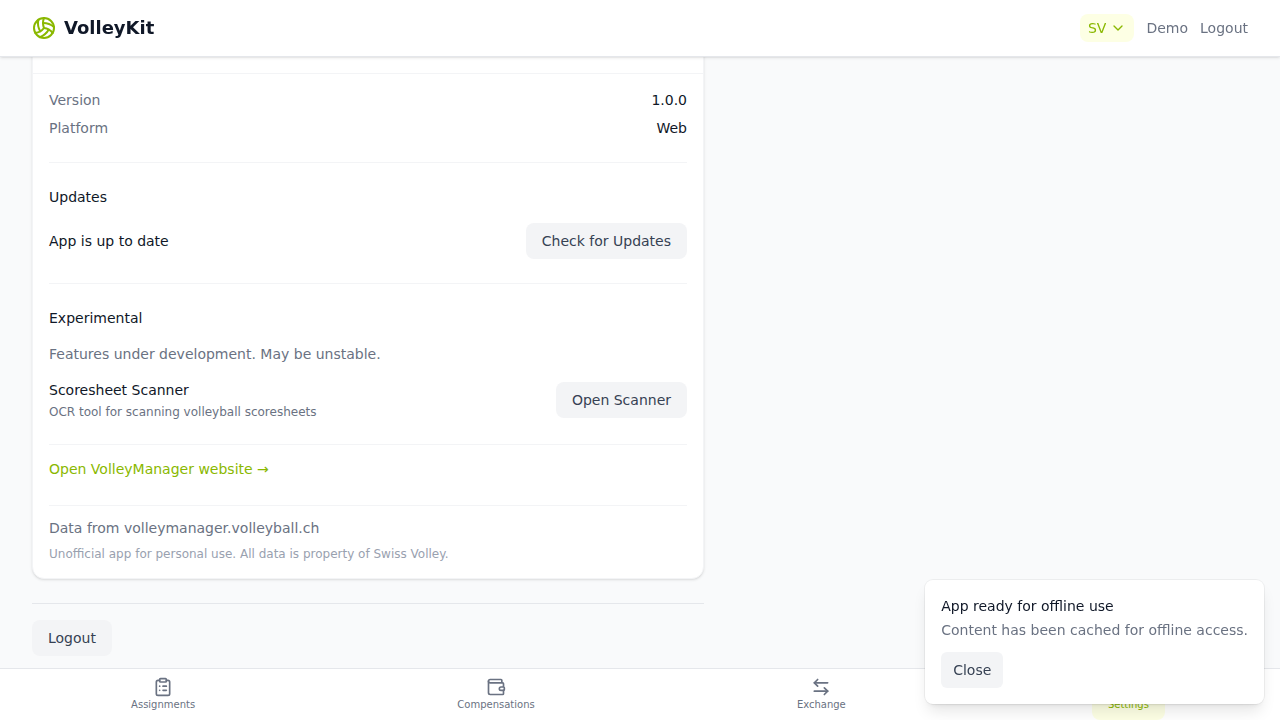
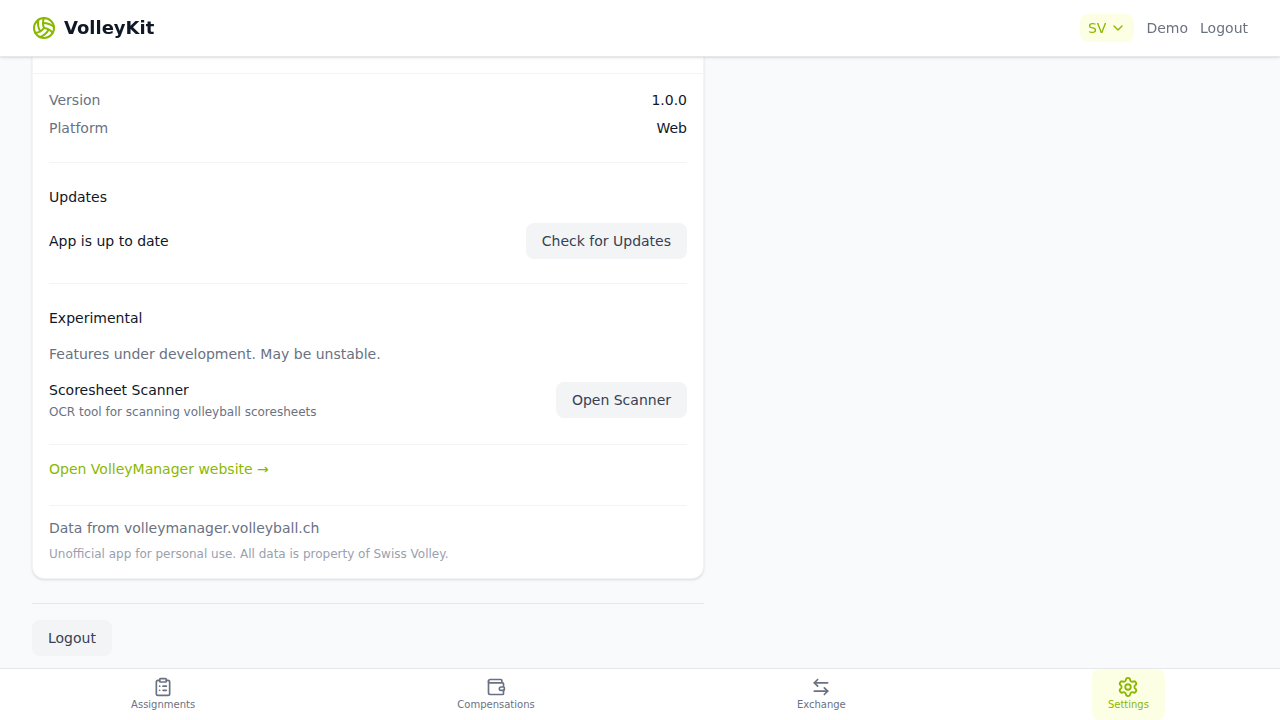
fix(help-site): improve screenshot capture with PWA dismissal and spotlight
- Dismiss PWA "ready for offline use" notifications before screenshots
- Fix swipe gesture simulation using slower mouse movements
- Add spotlight/highlight feature for focusing on specific UI elements
- Use spotlight on assignment-detail to highlight the expanded card
- Regenerate all screenshots with the improvements

Changed region(s): [[0.75, 0.9167, 0.9688, 1.0], [0.7188, 0.825, 0.9688, 0.8861], [0.75, 0.9167, 0.7812, 0.9472]]

diff --git a/web-app/e2e/capture-screenshots.spec.ts b/web-app/e2e/capture-screenshots.spec.ts
@@ -33,8 +33,8 @@ test.beforeAll(() => {
   }
 });
 
-// Helper to dismiss all tours by setting localStorage
-async function dismissAllTours(page: Page) {
+// Helper to dismiss all tours and PWA notifications by setting localStorage
+async function setupCleanEnvironment(page: Page) {
   await page.addInitScript(() => {
     // Pre-dismiss all tours to avoid them interfering with screenshots
     const tourState = {
@@ -45,14 +45,118 @@ async function dismissAllTours(page: Page) {
       version: 0,
     };
     localStorage.setItem('volleykit-tour', JSON.stringify(tourState));
+
+    // Disable PWA prompts by mocking the service worker registration
+    // This prevents "App ready for offline use" notifications
+    if ('serviceWorker' in navigator) {
+      // Override the ready promise to prevent PWA notifications
+      Object.defineProperty(navigator.serviceWorker, 'ready', {
+        get: () => new Promise(() => {}), // Never resolves
+      });
+    }
   });
+}
+
+// Helper to dismiss any visible PWA notification
+async function dismissPWANotification(page: Page) {
+  // Look for the PWA notification and dismiss it if visible
+  const closeButton = page.locator('[role="alert"] button').last();
+  if (await closeButton.isVisible({ timeout: 500 }).catch(() => false)) {
+    await closeButton.click();
+    await page.waitForTimeout(300);
+  }
 }
 
 // Helper to take a screenshot with a specific name
 async function takeScreenshot(page: Page, name: string) {
+  // Dismiss any PWA notifications before taking screenshot
+  await dismissPWANotification(page);
+
   const filePath = path.join(SCREENSHOT_DIR, `${name}.png`);
   await page.screenshot({ path: filePath, fullPage: false });
   console.log(`✅ Captured: ${name}.png`);
+}
+
+// Helper to add a spotlight effect highlighting a specific element
+// Creates a dark overlay with a "hole" around the spotlighted element
+async function addSpotlight(page: Page, selector: string, padding = 8) {
+  await page.evaluate(
+    ({ selector, padding }) => {
+      const element = document.querySelector(selector);
+      if (!element) return;
+
+      const rect = element.getBoundingClientRect();
+
+      // Create spotlight overlay
+      const overlay = document.createElement('div');
+      overlay.id = 'screenshot-spotlight-overlay';
+      overlay.style.cssText = `
+        position: fixed;
+        inset: 0;
+        z-index: 99999;
+        pointer-events: none;
+        background: rgba(0, 0, 0, 0.6);
+        /* Create a hole using clip-path */
+        clip-path: polygon(
+          0% 0%,
+          0% 100%,
+          ${rect.left - padding}px 100%,
+          ${rect.left - padding}px ${rect.top - padding}px,
+          ${rect.right + padding}px ${rect.top - padding}px,
+          ${rect.right + padding}px ${rect.bottom + padding}px,
+          ${rect.left - padding}px ${rect.bottom + padding}px,
+          ${rect.left - padding}px 100%,
+          100% 100%,
+          100% 0%
+        );
+      `;
+      document.body.appendChild(overlay);
+
+      // Add a subtle border around the spotlighted area
+      const border = document.createElement('div');
+      border.id = 'screenshot-spotlight-border';
+      border.style.cssText = `
+        position: fixed;
+        left: ${rect.left - padding}px;
+        top: ${rect.top - padding}px;
+        width: ${rect.width + padding * 2}px;
+        height: ${rect.height + padding * 2}px;
+        z-index: 100000;
+        pointer-events: none;
+        border: 2px solid rgba(255, 255, 255, 0.8);
+        border-radius: 12px;
+        box-shadow: 0 0 20px rgba(0, 0, 0, 0.3);
+      `;
+      document.body.appendChild(border);
+    },
+    { selector, padding }
+  );
+}
+
+// Helper to remove the spotlight overlay
+async function removeSpotlight(page: Page) {
+  await page.evaluate(() => {
+    document.getElementById('screenshot-spotlight-overlay')?.remove();
+    document.getElementById('screenshot-spotlight-border')?.remove();
+  });
+}
+
+// Helper to take a screenshot with a spotlight effect on a specific element
+async function takeSpotlightScreenshot(
+  page: Page,
+  name: string,
+  selector: string,
+  padding = 8
+) {
+  await dismissPWANotification(page);
+  await addSpotlight(page, selector, padding);
+  await page.waitForTimeout(100); // Let the overlay render
+
+  const filePath = path.join(SCREENSHOT_DIR, `${name}.png`);
+  await page.screenshot({ path: filePath, fullPage: false });
+  console.log(`✅ Captured: ${name}.png (with spotlight on ${selector})`);
+
+  await removeSpotlight(page);
 }
 
 // Helper to take device-specific screenshots
@@ -73,12 +177,49 @@ async function takeDeviceScreenshots(
   }
 }
 
-// Helper to enter demo mode with tours dismissed
+// Helper to enter demo mode with clean environment
 async function enterDemoModeWithoutTours(page: Page) {
-  await dismissAllTours(page);
+  await setupCleanEnvironment(page);
   const loginPage = new LoginPage(page);
   await loginPage.goto();
   await loginPage.enterDemoMode();
+
+  // Wait for any initial notifications to appear and dismiss them
+  await page.waitForTimeout(500);
+  await dismissPWANotification(page);
+}
+
+// Helper to perform a swipe gesture using mouse events
+async function performSwipe(
+  page: Page,
+  element: { x: number; y: number; width: number; height: number },
+  direction: 'left' | 'right',
+  distance: number
+) {
+  const startX = element.x + element.width / 2;
+  const startY = element.y + element.height / 2;
+  const endX = direction === 'right' ? startX + distance : startX - distance;
+
+  // Start with mouse position at the element
+  await page.mouse.move(startX, startY);
+  await page.waitForTimeout(50);
+
+  // Mouse down to start drag
+  await page.mouse.down();
+  await page.waitForTimeout(50);
+
+  // Move in small steps to simulate a real swipe - slower for reliability
+  const steps = 30;
+  for (let i = 1; i <= steps; i++) {
+    const x = startX + ((endX - startX) * i) / steps;
+    await page.mouse.move(x, startY);
+    await page.waitForTimeout(15);
+  }
+
+  // Hold at end position briefly before releasing
+  await page.waitForTimeout(100);
+  await page.mouse.up();
+  await page.waitForTimeout(400);
 }
 
 test.describe('Help Site Screenshots', () => {
@@ -125,8 +266,9 @@ test.describe('Help Site Screenshots', () => {
     const assignmentsPage = new AssignmentsPage(page);
     await assignmentsPage.waitForAssignmentsLoaded();
 
-    // Wait for any animations to complete
-    await page.waitForTimeout(500);
+    // Wait for any animations to complete and dismiss notifications
+    await page.waitForTimeout(1000);
+    await dismissPWANotification(page);
 
     await takeScreenshot(page, 'assignments-list');
   });
@@ -136,15 +278,15 @@ test.describe('Help Site Screenshots', () => {
     const assignmentsPage = new AssignmentsPage(page);
     await assignmentsPage.waitForAssignmentsLoaded();
 
-    // Click on the first assignment card to open detail view
+    // Click on the first assignment card to expand it
     const firstCard = assignmentsPage.assignmentCards.first();
     await firstCard.click();
 
-    // Wait for the detail sheet to appear (look for sheet content specifically)
+    // Wait for expansion animation
     await page.waitForTimeout(500);
 
-    // Take screenshot regardless of state - the sheet should be open
-    await takeScreenshot(page, 'assignment-detail');
+    // Use spotlight to highlight the expanded card
+    await takeSpotlightScreenshot(page, 'assignment-detail', '[data-tour="assignment-card"]', 4);
   });
 
   test('assignment-actions - capture swipe actions', async ({ page }) => {
@@ -152,19 +294,19 @@ test.describe('Help Site Screenshots', () => {
     const assignmentsPage = new AssignmentsPage(page);
     await assignmentsPage.waitForAssignmentsLoaded();
 
-    // Get the first assignment card and simulate swipe to reveal actions
+    // Get the first assignment card
     const firstCard = assignmentsPage.assignmentCards.first();
     const cardBox = await firstCard.boundingBox();
 
     if (cardBox) {
-      // Swipe right to reveal left actions (exchange)
-      await page.mouse.move(cardBox.x + cardBox.width / 2, cardBox.y + cardBox.height / 2);
-      await page.mouse.down();
-      await page.mouse.move(cardBox.x + cardBox.width / 2 + 100, cardBox.y + cardBox.height / 2, {
-        steps: 10,
-      });
-      await page.mouse.up();
-      await page.waitForTimeout(300);
+      // Calculate swipe distance - needs to be past the drawer threshold (30% of width)
+      // Swipe RIGHT to reveal the exchange action (which appears on the left side behind the card)
+      const swipeDistance = cardBox.width * 0.4; // 40% of card width
+
+      await performSwipe(page, cardBox, 'right', swipeDistance);
+
+      // Wait for the drawer animation to complete
+      await page.waitForTimeout(500);
     }
 
     await takeScreenshot(page, 'assignment-actions');
@@ -190,19 +332,15 @@ test.describe('Help Site Screenshots', () => {
     const assignmentsPage = new AssignmentsPage(page);
     await assignmentsPage.waitForAssignmentsLoaded();
 
-    // Swipe to reveal exchange action
+    // Get the first assignment card
     const firstCard = assignmentsPage.assignmentCards.first();
     const cardBox = await firstCard.boundingBox();
 
     if (cardBox) {
       // Swipe right to reveal exchange action
-      await page.mouse.move(cardBox.x + cardBox.width / 2, cardBox.y + cardBox.height / 2);
-      await page.mouse.down();
-      await page.mouse.move(cardBox.x + cardBox.width / 2 + 120, cardBox.y + cardBox.height / 2, {
-        steps: 10,
-      });
-      await page.mouse.up();
-      await page.waitForTimeout(300);
+      const swipeDistance = cardBox.width * 0.4;
+      await performSwipe(page, cardBox, 'right', swipeDistance);
+      await page.waitForTimeout(500);
     }
 
     await takeScreenshot(page, 'exchange-request');
